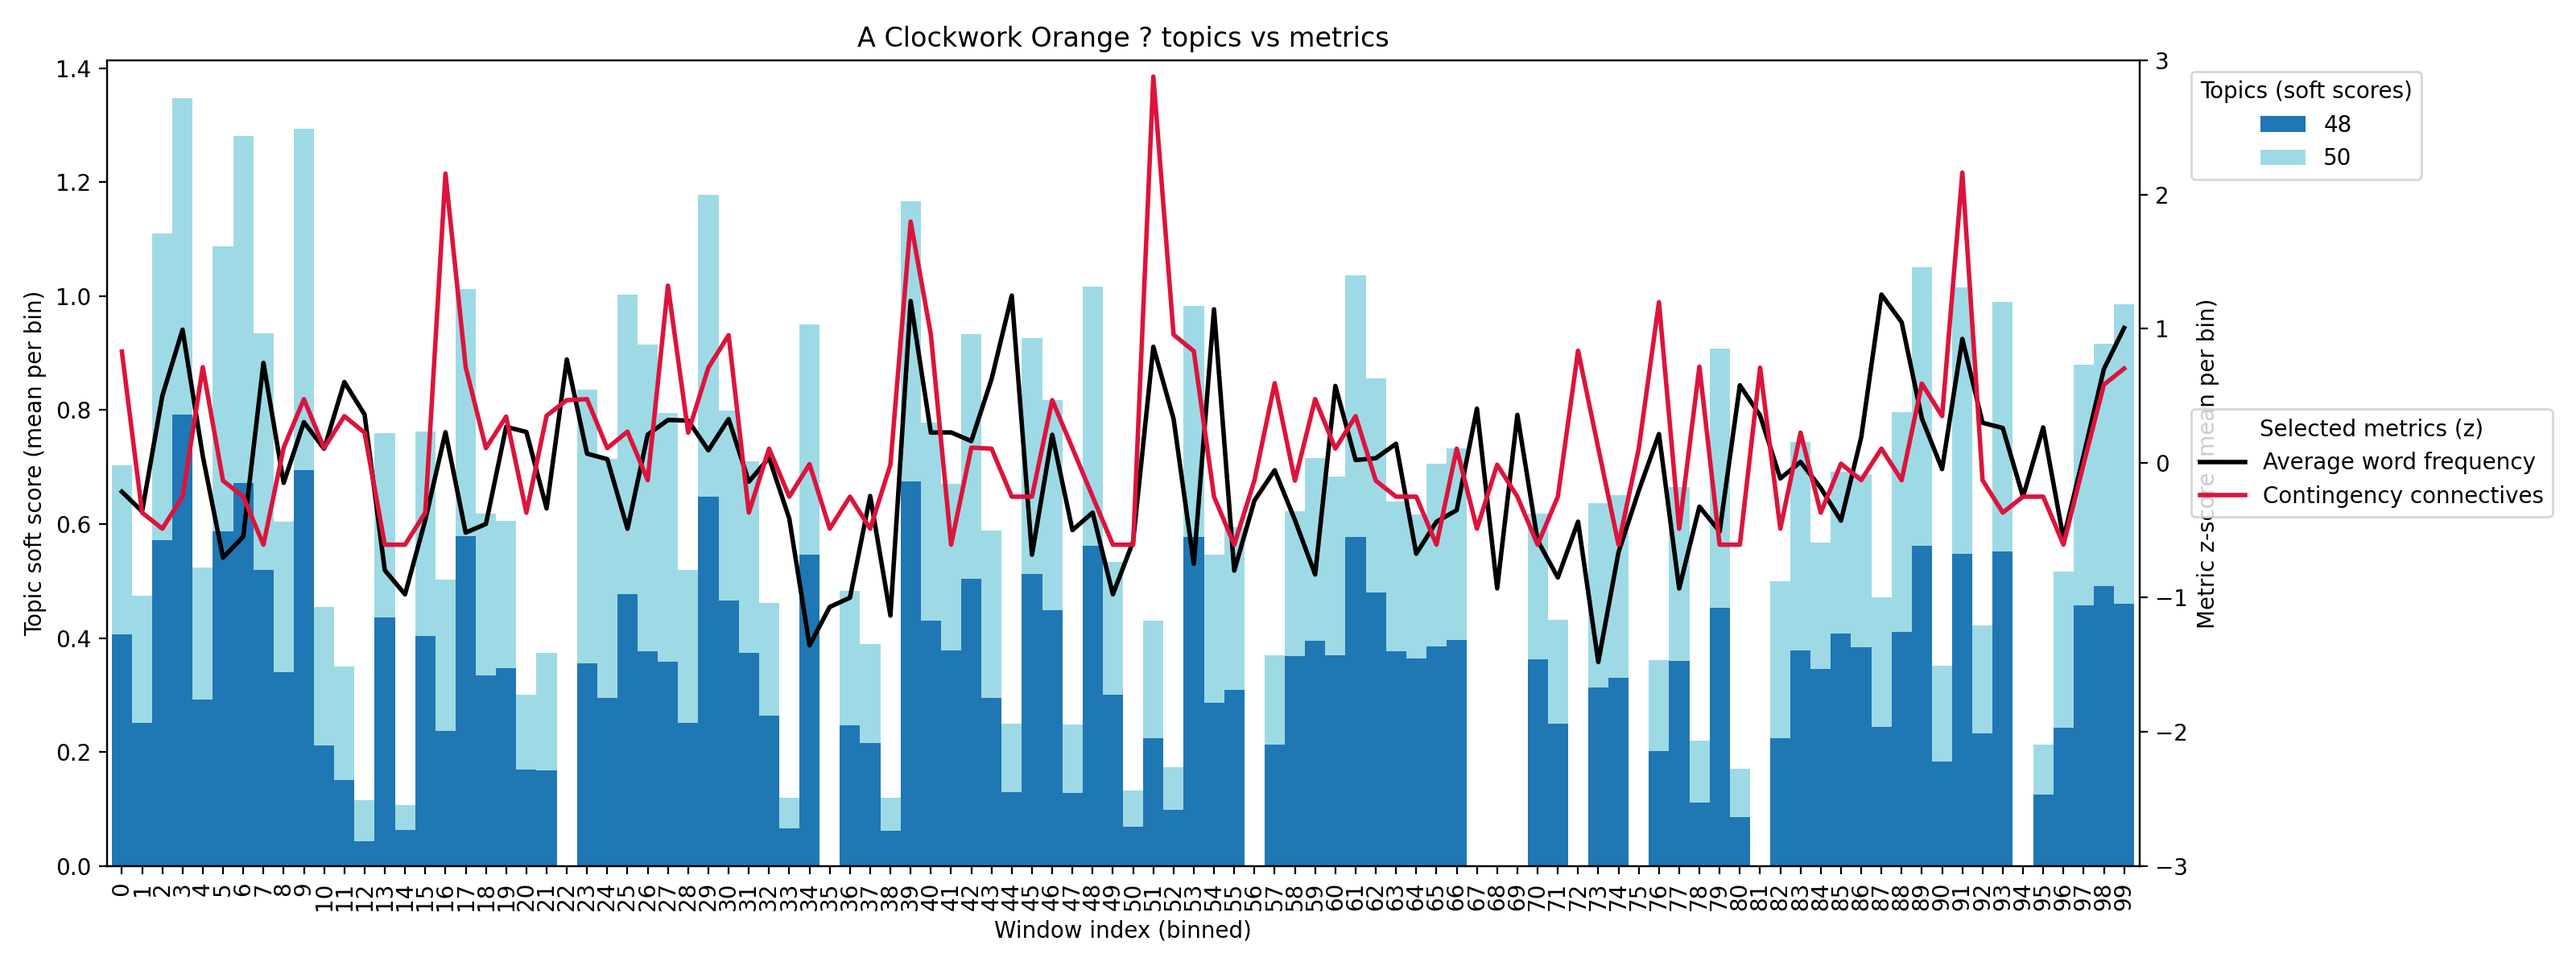
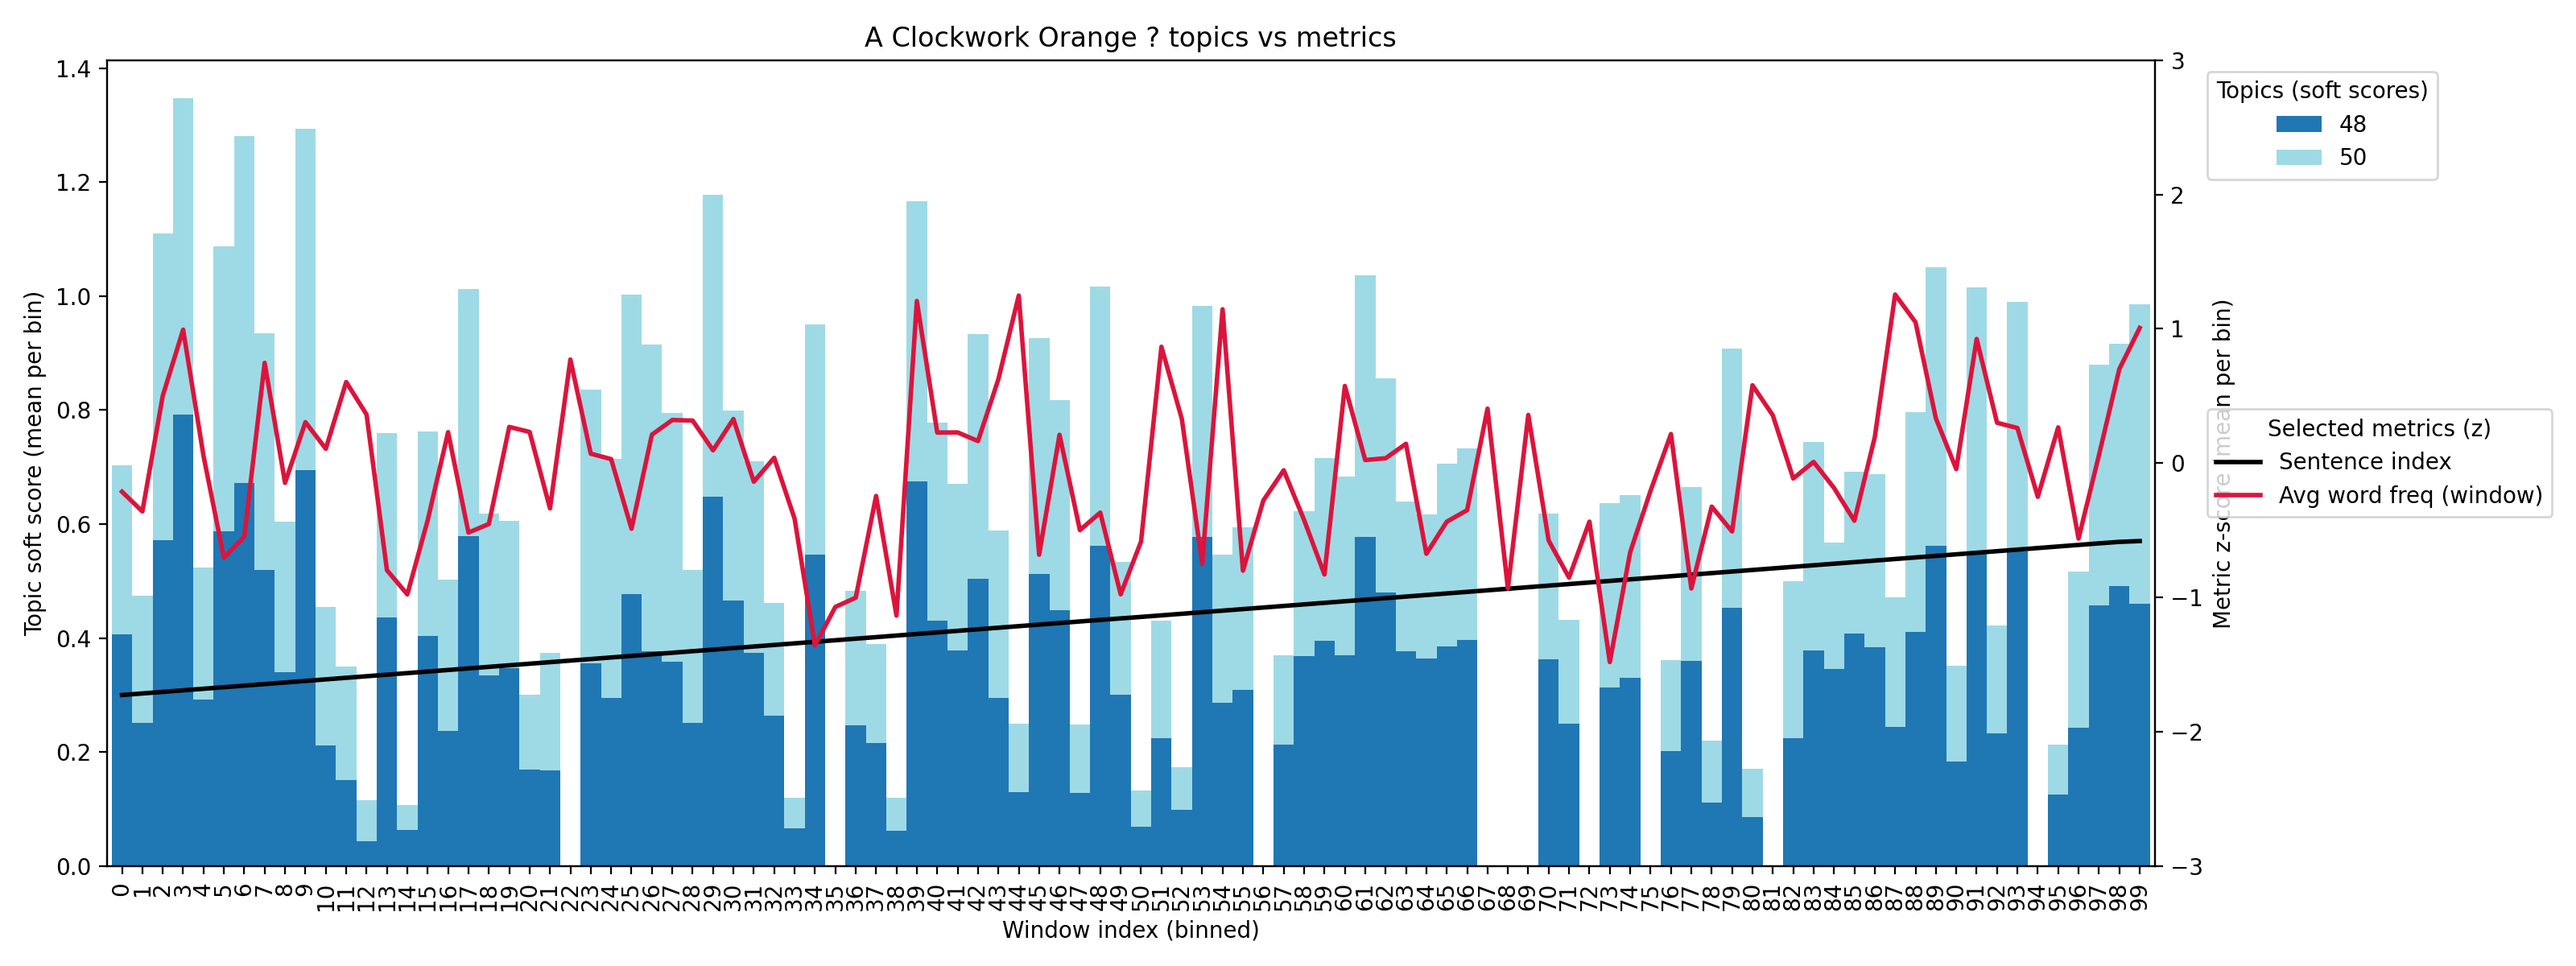
test

diff --git a/README.md b/README.md
@@ -120,7 +120,7 @@ Together, these metrics support a multi-layer alignment analysis: *what* is emph
 
 ![The Black Cat - topics vs IC/log-prob (|r| >= 0.4)](data/analytics/dashboard/short_stories/the_black_cat/the_black_cat_topic_ic_logprob_r04.png)
 
-- Stacked soft topic scores per window (top 5 topics by |r| for the selected metrics); right axis: z-scored metrics (lexical rarity, mean log-probability); topics filtered to |r| >= 0.4 with either metric.
+- Stacked soft topic scores per window (top 5 topics by |r| for the selected metrics); right axis: z-scored metrics (lexical rarity, mean log-probability); topics filtered to |r| >= 0.3 with either metric.
 - Topics visible (keywords):
   - Topic 2 - run; run fail; fail; fail anger; anger; anger run; near; new feeling
   - Topic 3 - tomorrow die; tomorrow; die; today want; today; happen; happen free; soul horrible
@@ -141,7 +141,7 @@ Together, these metrics support a multi-layer alignment analysis: *what* is emph
 
 ![A Clockwork Orange - topics vs IC/log-prob](data/analytics/dashboard/novellas/a_clockwork_orange/a_clockwork_orange_topic_ic_logprob.png)
 
-- Stacked soft topic scores per binned window (mean per bin); right axis: z-scored metrics (average word frequency, contingency connectives); topics plotted: top 2 by |r| for these metrics.
+- Stacked soft topic scores per binned window (mean per bin); right axis: z-scored metrics (sentence index, avg word freq window); topics plotted: top 2 by |r| for these metrics.
 - Topics visible (keywords):
   - Topic 48 - old; dim; old baboochkas; round; sud; baboochkas; lad; buy
   - Topic 50 - say georgie; lad; say; georgie; georgieboy; dim; buy; right right
@@ -158,10 +158,14 @@ Together, these metrics support a multi-layer alignment analysis: *what* is emph
 
 ![The Tell-Tale Heart - topics vs IC/log-prob](data/analytics/dashboard/short_stories/the_telltale_heart/the_telltale_heart_topic_ic_logprob.png)
 
-- Stacked soft topic scores per binned window (mean per bin); right axis: z-scored metrics (lexical density, mean log-probability); topics filtered to |r| >= 0.3 with either metric and top 5 by |r|.
+- Stacked soft topic scores per binned window (mean per bin); right axis: z-scored metrics (sum log-probability, lexical density window token count); topics filtered to |r| >= 0.3 and top 5 by |r|.
 - Topics visible: multiple active topics (e.g., Topic 36) that meet the filter.
 
 #### Top correlations (|r| >= 0.3)
 
 - Topic 36 - sum_log_prob down (r=-0.52) across info_content/log_prob blocks; token counts up (r≈+0.50); keywords: eye; eye evil; kill eye; man feel; evil; feel kill. Interpretation: “evil eye” motif co-occurs with longer, less probable spans, boosting token counts and lowering log-probability.
 - Topic 23 - explicit_connectives up (r=+0.47); keywords: plan; madman plan; madman; mad madman; think mad; think; mad; plan week. Interpretation: “madman plan” motif uses more explicit discourse connectives.
+
+### The Metamorphosis
+
+*Topic correlations file not found; plot unavailable.*
